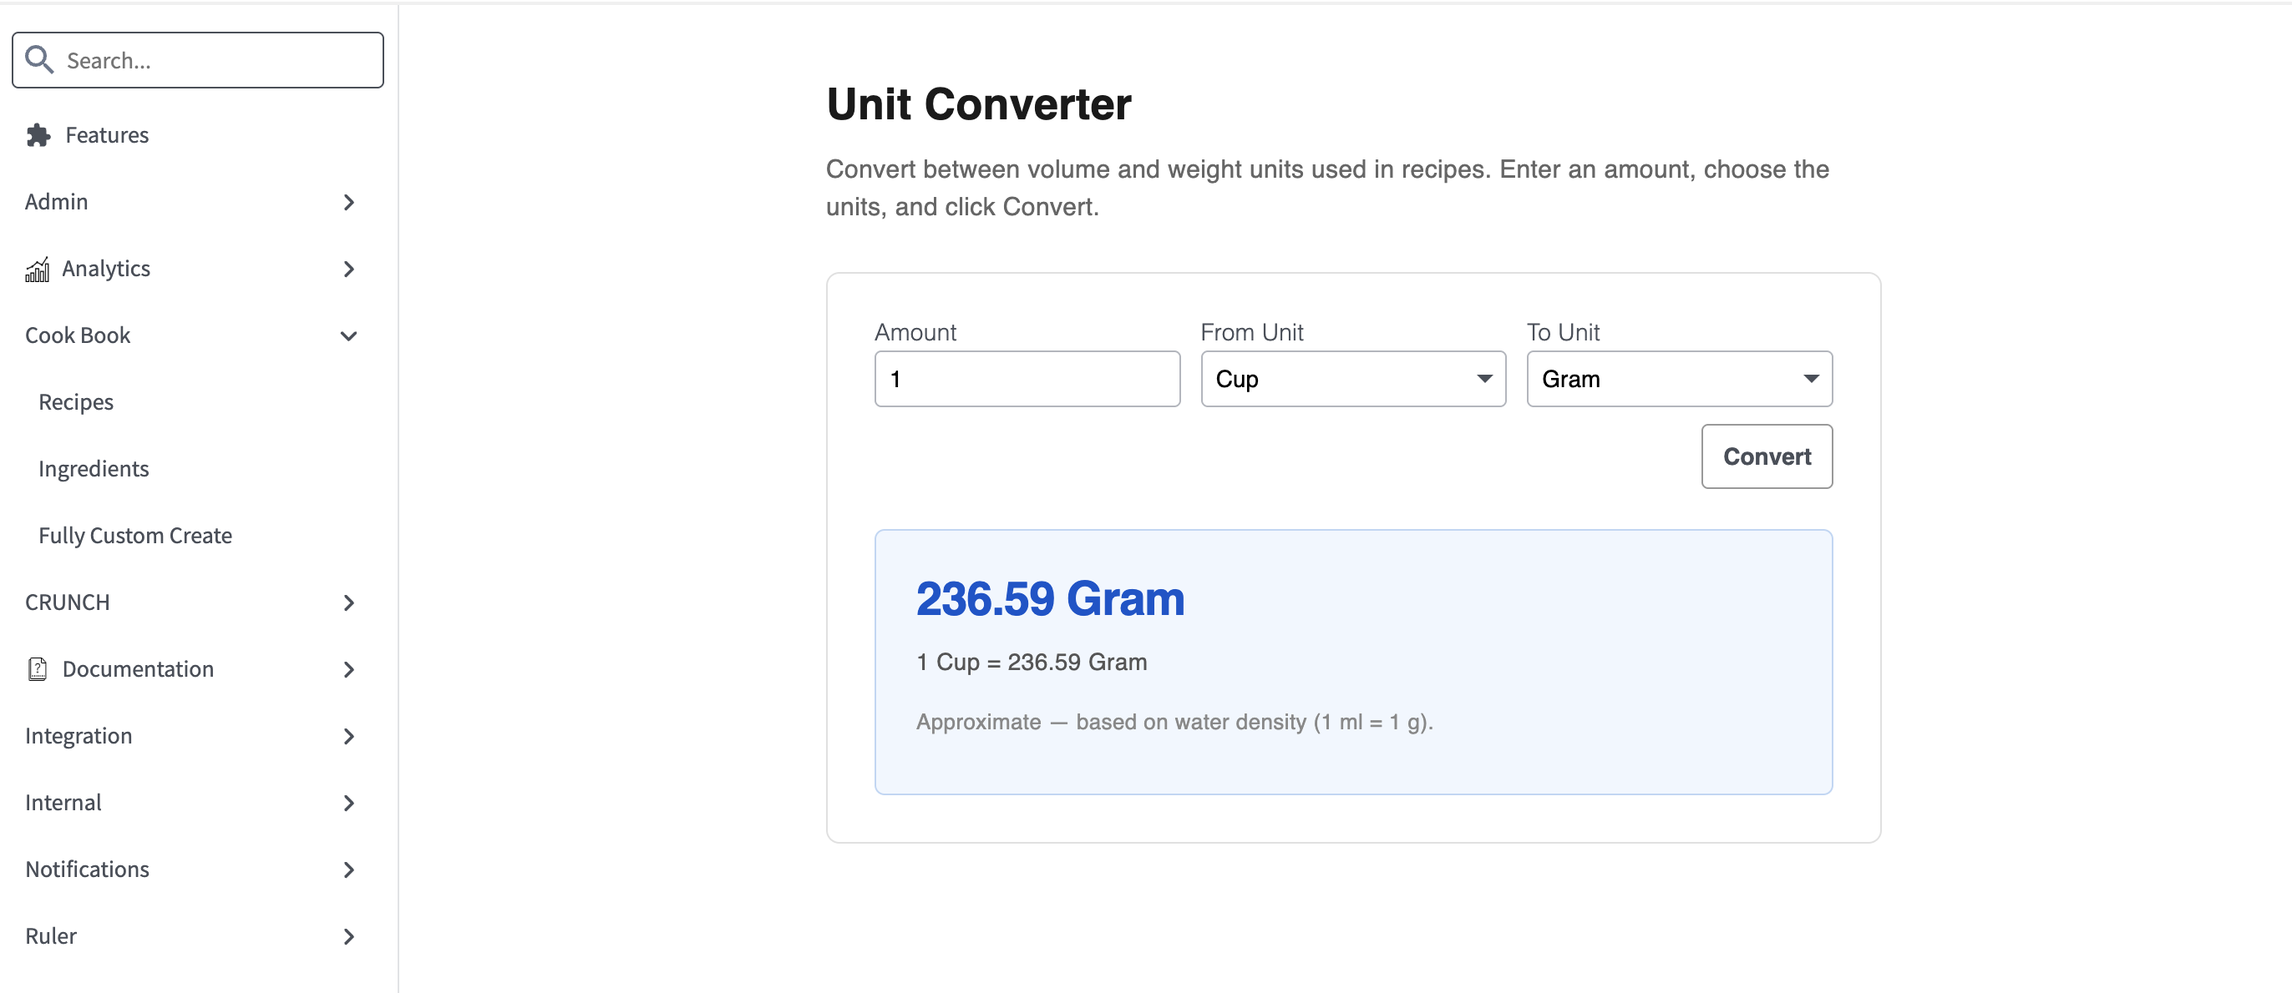
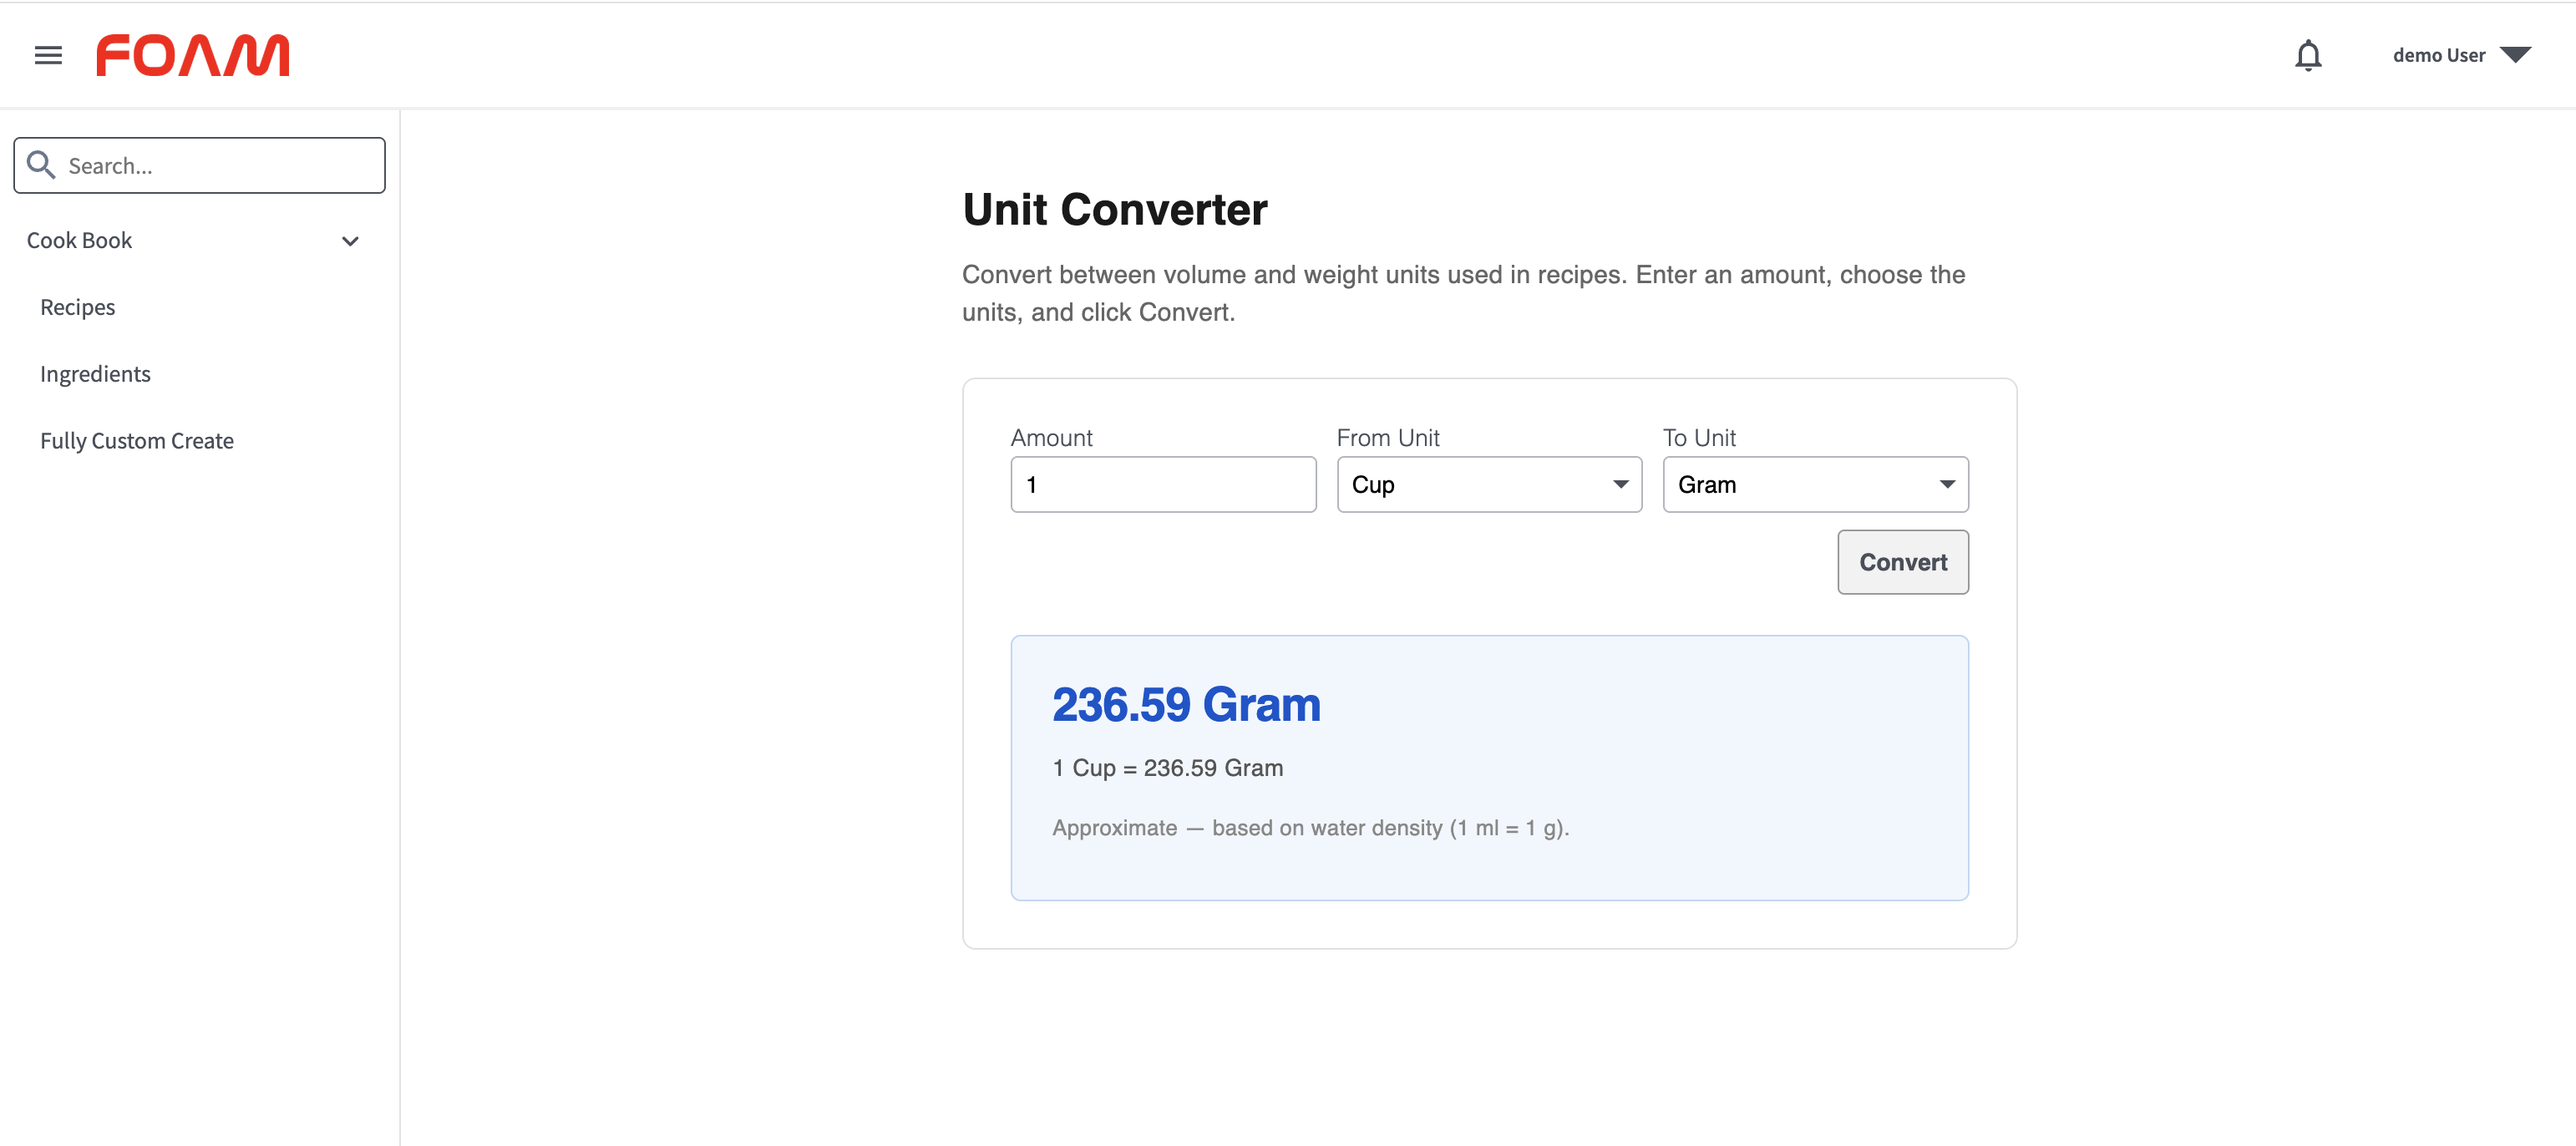
FOAM-5496 Review and refine the tutorial end to end - fifth pass

diff --git a/doc/tutorials/foam-tutorial.md b/doc/tutorials/foam-tutorial.md
@@ -3084,13 +3084,13 @@ p({
 "defaultMenu": ["welcome"]
 ```
 
-After restarting the server, logging in navigates directly to the Unit Converter. The cookbook is still reachable from the sidebar — the default menu controls only where the app begins, not what else is available.
-
-![Unit Converter landing page](images/screen10.png)
+Rebuild and restart — the default menu controls only where the app begins, not what else is available, so the cookbook is still reachable from the sidebar.
 
 ## Testing with the Demo User
 
-Now is a good time to verify everything works for a regular non-privileged user. When you extracted `custom-views.tar.gz` at the start of this chapter, it also placed an updated `groupPermissionJunctions.jrl` into `journals/` — this file grants the `recipes` group permission to reach the `welcome` landing page. Rebuild and restart, then log in as `demo` / `demopassword` — you should land directly on the Unit Converter and have access to the full cookbook menu.
+Now is a good time to verify everything works for a regular non-privileged user. When you extracted `custom-views.tar.gz` at the start of this chapter, it also placed an updated `groupPermissionJunctions.jrl` into `journals/` — this file grants the `recipes` group permission to access all the Cook Book DAOs and menus we added throughout the tutorial — recipes, ingredients, ingredient amounts, recipe steps, the conversion service, and the `welcome` landing page. Log in as `demo` / `demopassword` — you should land directly on the Unit Converter and have access to the full cookbook menu. Notice that the left navigation is clean: only the Cook Book items you created are visible. The admin-only sections (user management, data management, and other system menus) are absent entirely — FOAM's permission system filters the sidebar automatically based on what the current user's group is allowed to see.
+
+![Unit Converter landing page](images/screen10.png)
 
 # Where to Go from Here
 
